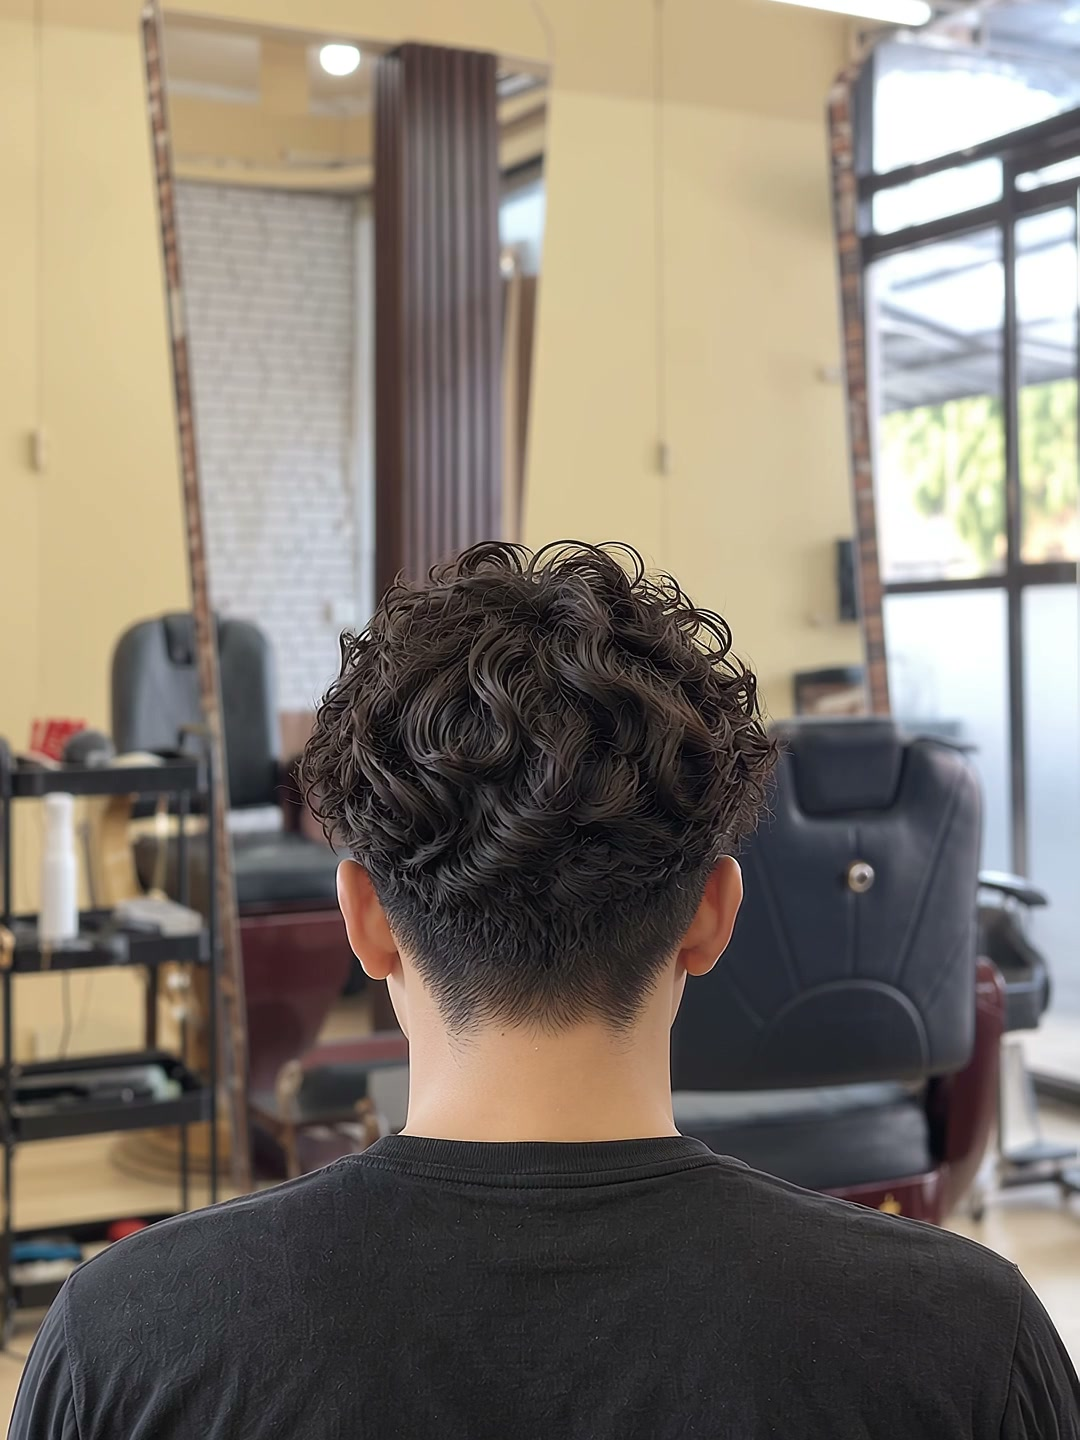
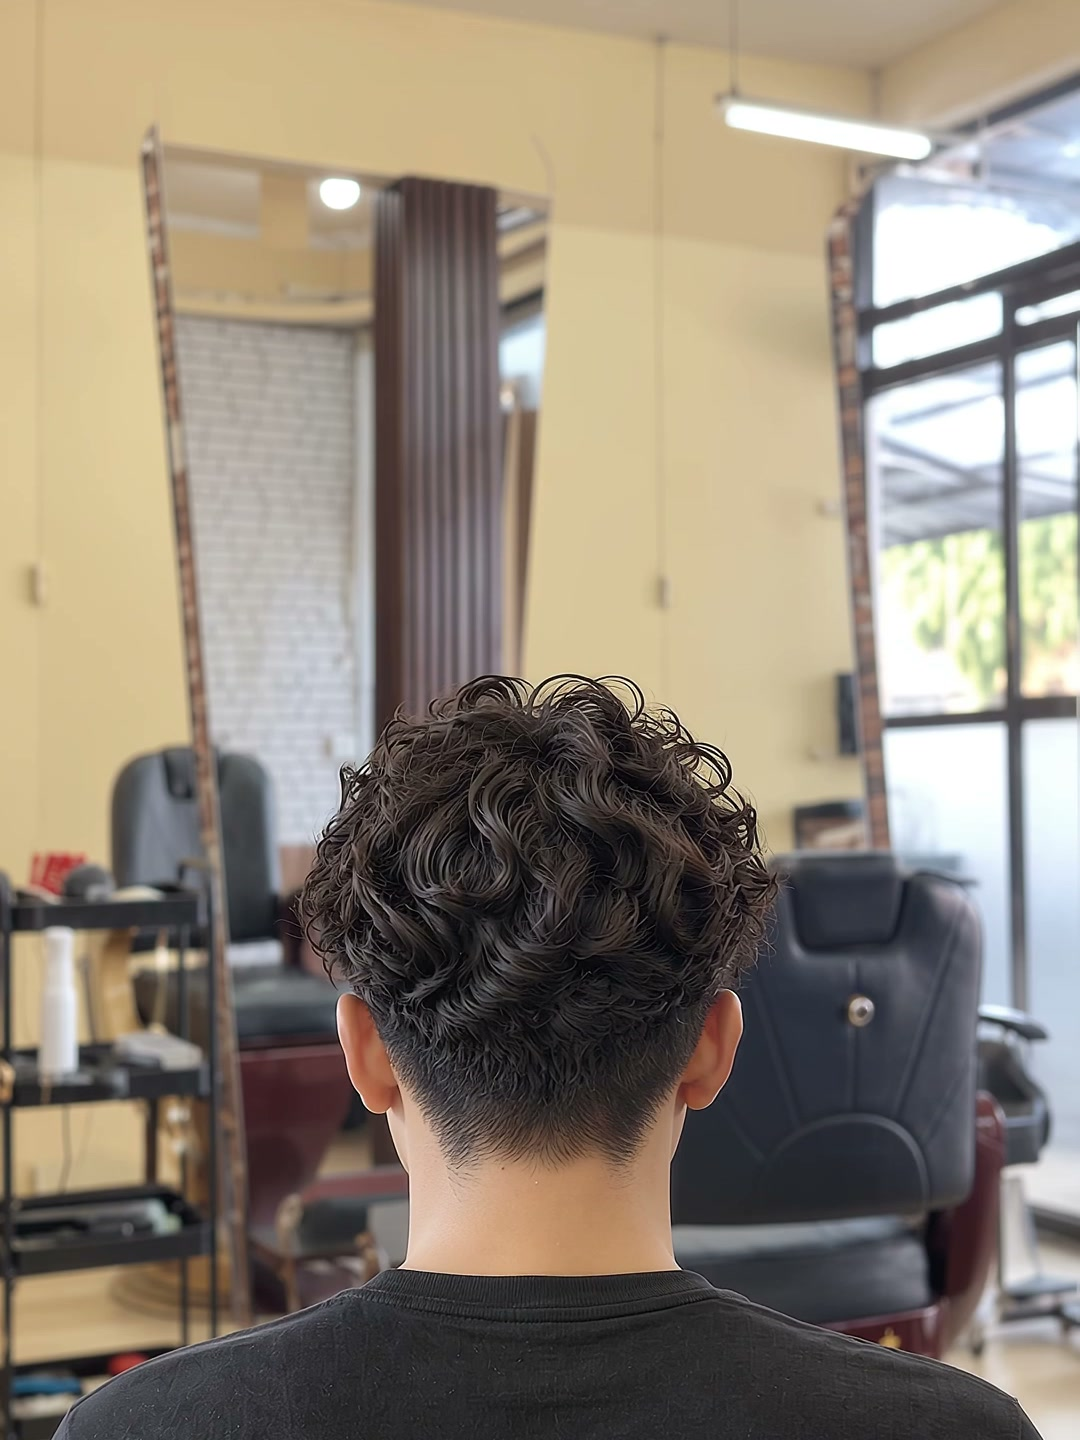
Changes

diff --git a/src/apps/feed/components/GgsMenPermPromoSlide.css b/src/apps/feed/components/GgsMenPermPromoSlide.css
@@ -1,6 +1,6 @@
 .ggmp-root{position:relative;isolation:isolate;width:100%;aspect-ratio:3/4;overflow:hidden;container-type:inline-size;background:var(--ggmp-paper);font-family:'DM Sans',sans-serif;color:var(--ggmp-ink)}
 .ggmp-root *{letter-spacing:0}
-.ggmp-photo{position:absolute;inset:0;z-index:0;width:100%;height:100%;object-fit:cover;object-position:50% 50%}
+.ggmp-photo{position:absolute;inset:0;z-index:0;width:100%;height:100%;object-fit:cover;object-position:50% 22%}
 .ggmp-fade{position:absolute;inset:0;z-index:1;background:var(--ggmp-fade);pointer-events:none}
 
 .ggmp-head{position:absolute;z-index:2;left:0;right:0;top:24cqw;display:flex;flex-direction:column;align-items:center}
